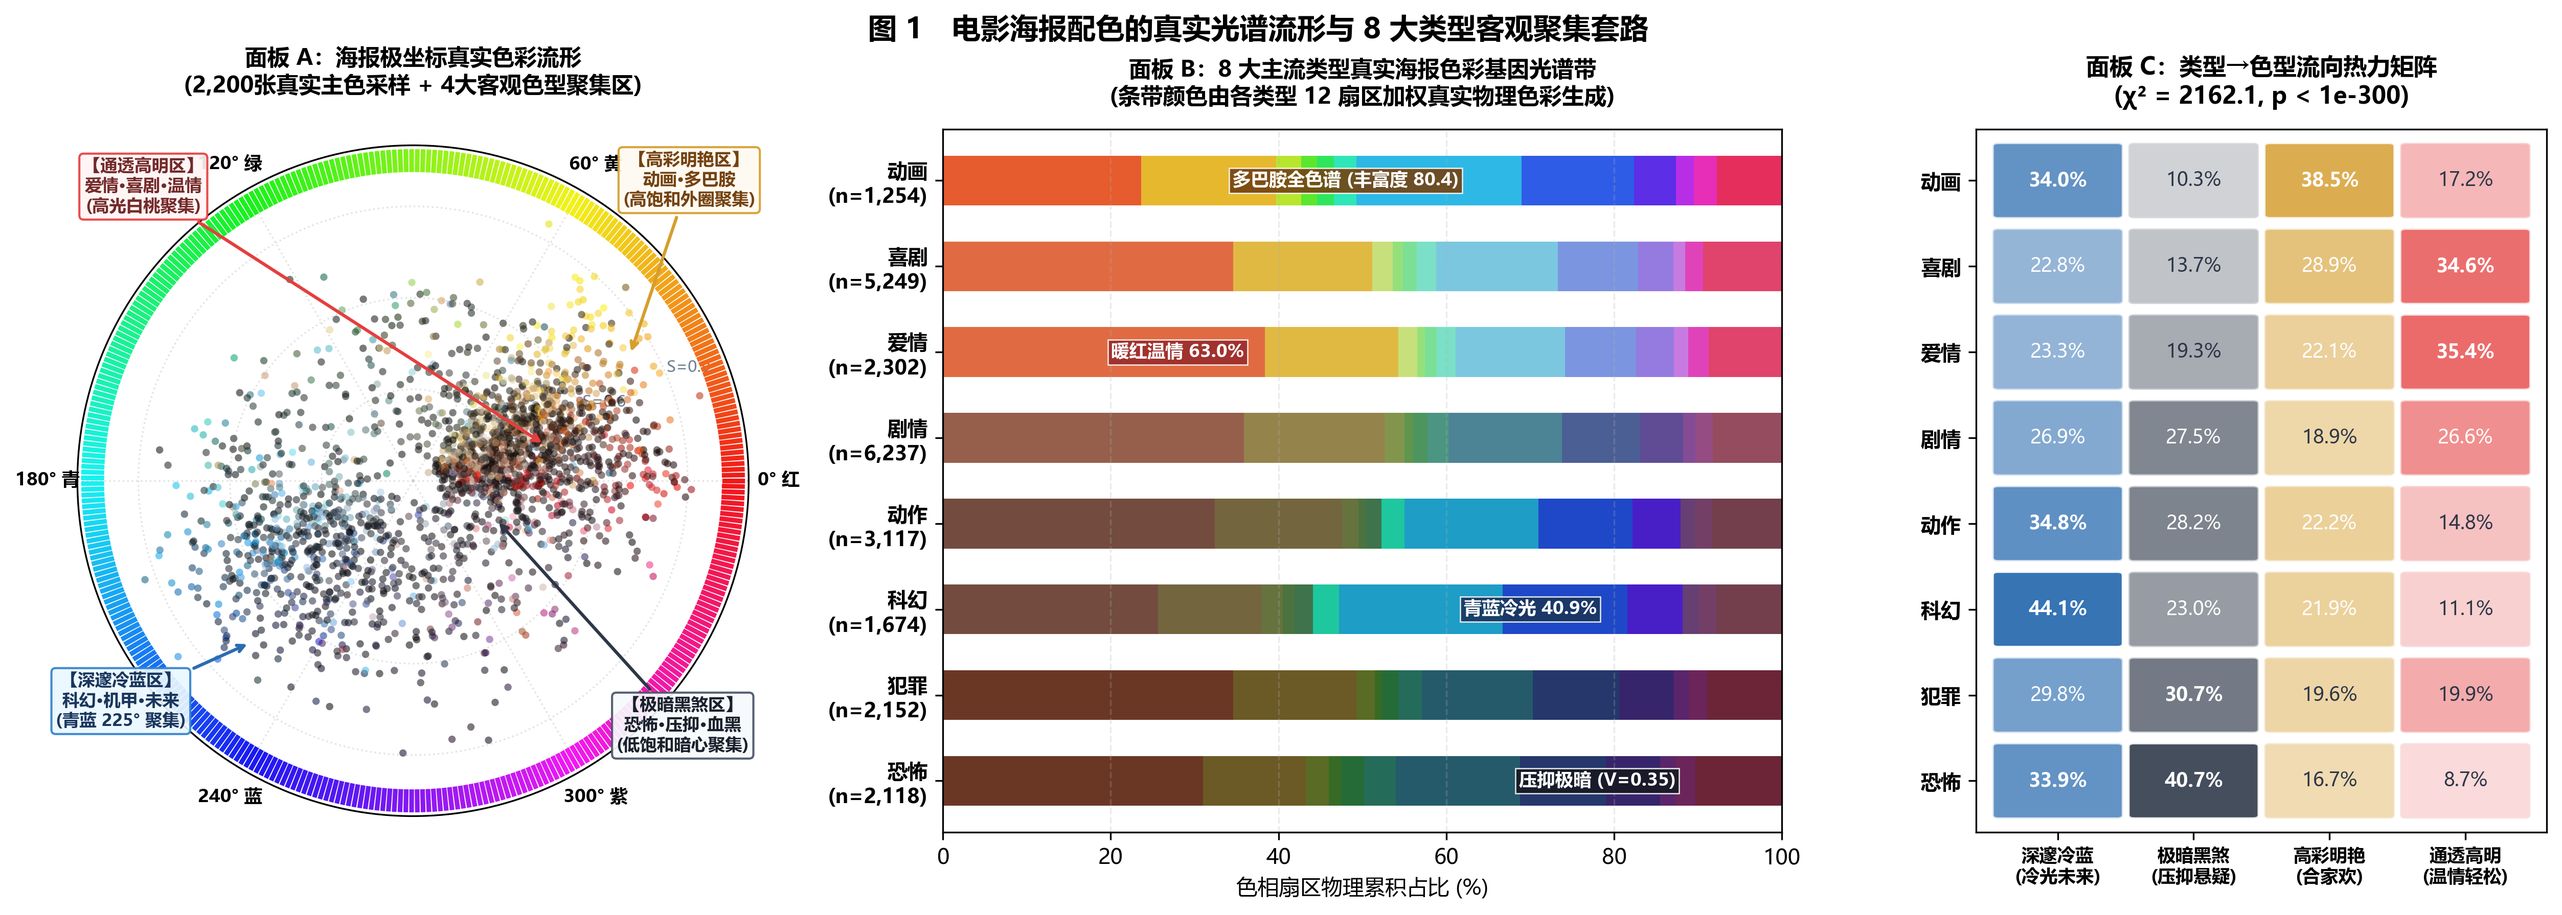
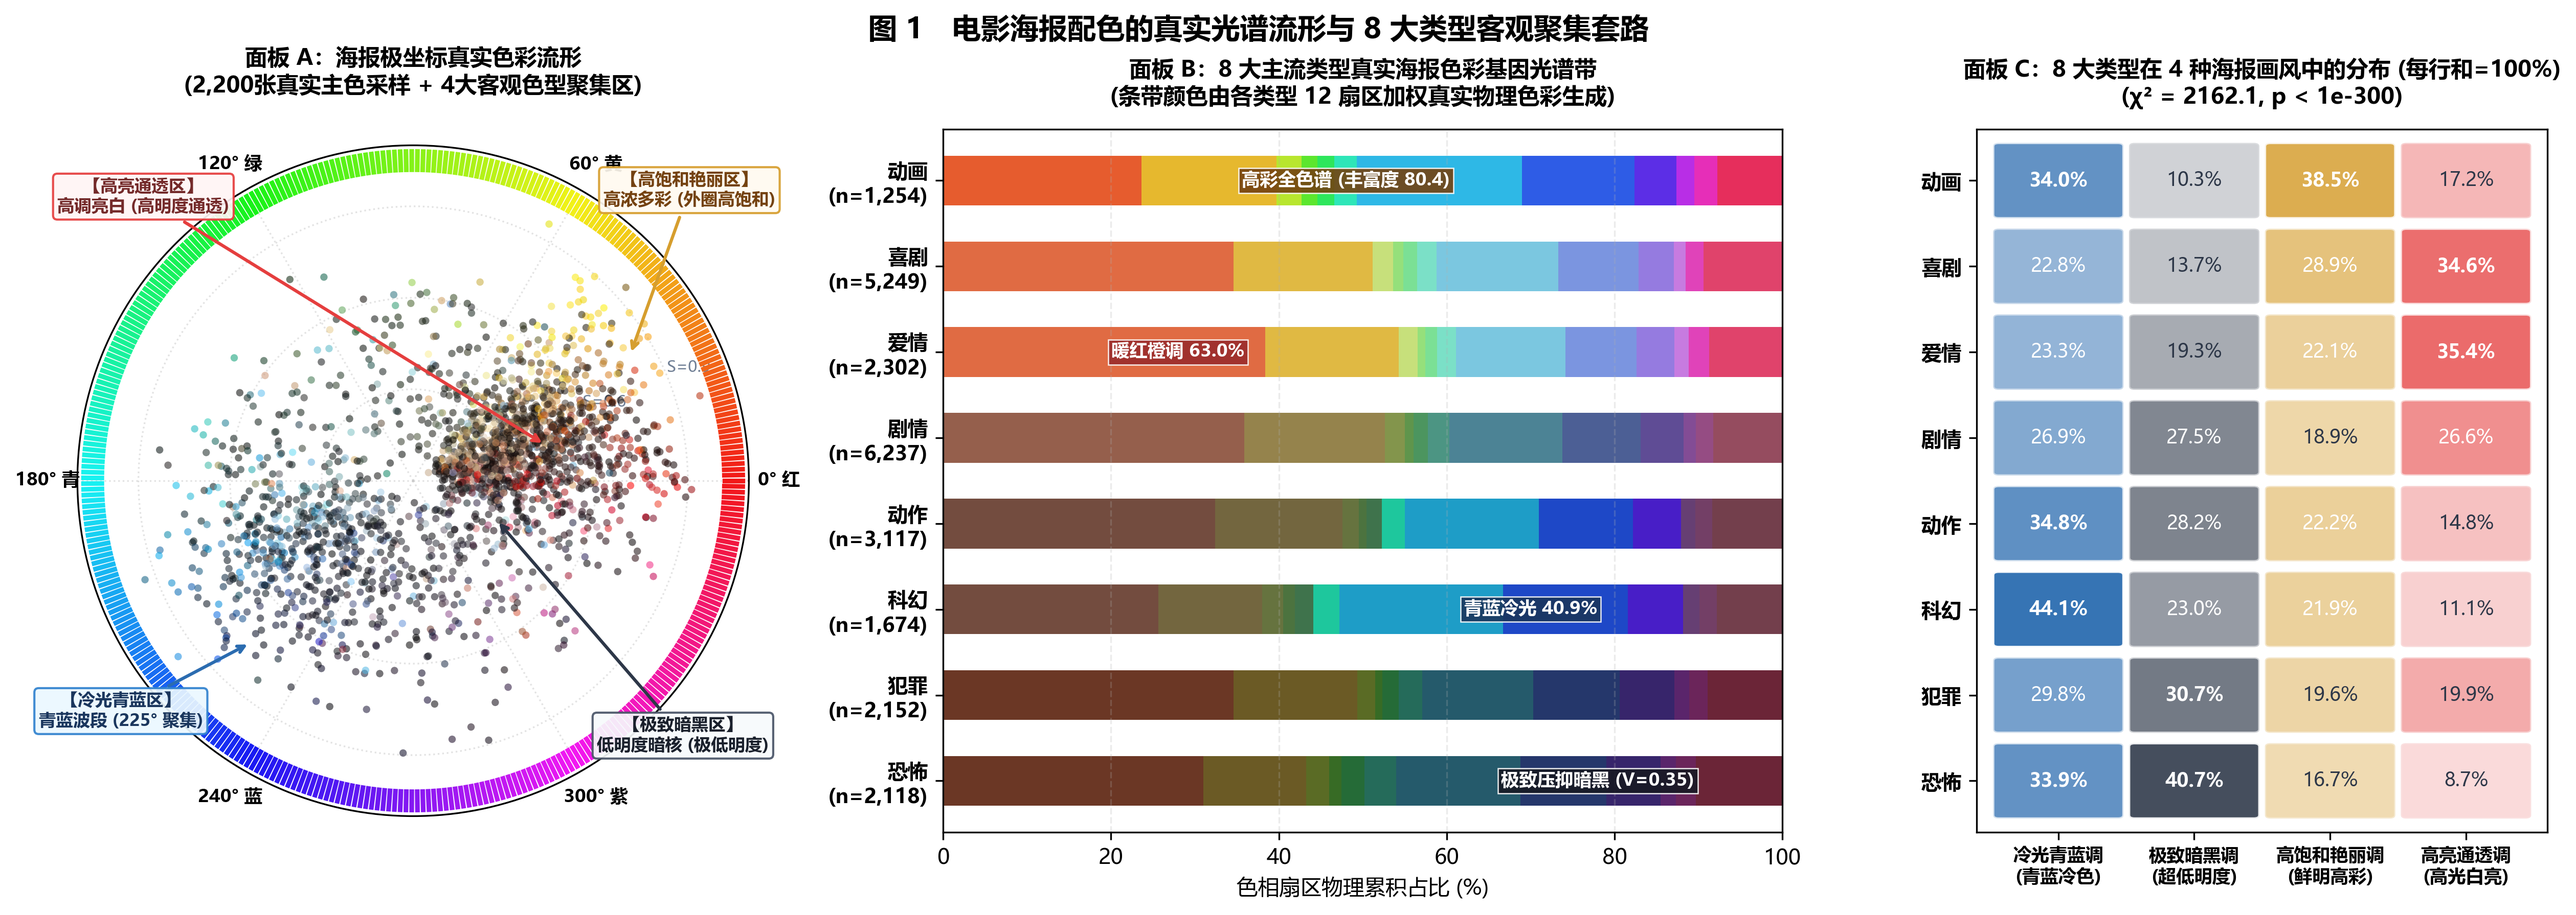
refactor(member-b): refine panel C labels to pure physical color schemes

diff --git a/outputs/b/fig1_hue.py b/outputs/b/fig1_hue.py
@@ -114,29 +114,29 @@ def render_fig1_spectacular(df_u):
     ax_a.scatter(thetas, radii, c=point_colors, s=12, alpha=0.55, edgecolors='none', zorder=3)
     
     # 标出 4 个色型的聚类中心与聚集光晕 (严格控制在极坐标盘内四周，防止溢出到面板 B)
-    # 1. 深邃冷蓝区 (210°~240°) - 放置在左下角
-    ax_a.annotate('【深邃冷蓝区】\n科幻·机甲·未来\n(青蓝 225° 聚集)',
+    # 1. 冷光青蓝区 (210°~240°) - 放置在左下角
+    ax_a.annotate('【冷光青蓝区】\n青蓝波段 (225° 聚集)',
                   xy=(np.radians(225), 0.75), xytext=(np.radians(220), 1.25),
                   arrowprops=dict(arrowstyle="->", color='#2b6cb0', lw=1.5),
                   fontsize=8, fontweight='bold', color='#1a365d', ha='center',
                   bbox=dict(boxstyle="round,pad=0.25", fc='#ebf8ff', ec='#3182ce', alpha=0.92))
     
-    # 2. 高彩明艳区 (15°~45° 外圈) - 放置在右上角
-    ax_a.annotate('【高彩明艳区】\n动画·多巴胺\n(高饱和外圈聚集)',
+    # 2. 高饱和艳丽区 (15°~45° 外圈) - 放置在右上角
+    ax_a.annotate('【高饱和艳丽区】\n高浓多彩 (外圈高饱和)',
                   xy=(np.radians(30), 0.82), xytext=(np.radians(45), 1.28),
                   arrowprops=dict(arrowstyle="->", color='#d69e2e', lw=1.5),
                   fontsize=8, fontweight='bold', color='#744210', ha='center',
                   bbox=dict(boxstyle="round,pad=0.25", fc='#fffaf0', ec='#d69e2e', alpha=0.92))
     
-    # 3. 极暗黑煞区 (内圈暗黑) - 放置在右下角
-    ax_a.annotate('【极暗黑煞区】\n恐怖·压抑·血黑\n(低饱和暗心聚集)',
+    # 3. 极致暗黑区 (内圈暗黑) - 放置在右下角
+    ax_a.annotate('【极致暗黑区】\n低明度暗核 (极低明度)',
                   xy=(np.radians(335), 0.30), xytext=(np.radians(315), 1.25),
                   arrowprops=dict(arrowstyle="->", color='#2d3748', lw=1.5),
                   fontsize=8, fontweight='bold', color='#1a202c', ha='center',
                   bbox=dict(boxstyle="round,pad=0.25", fc='#f7fafc', ec='#4a5568', alpha=0.92))
     
-    # 4. 通透高明区 (15°~30° 中低饱和) - 放置在西北角 (135°)，完全避开正上方标题
-    ax_a.annotate('【通透高明区】\n爱情·喜剧·温情\n(高光白桃聚集)',
+    # 4. 高亮通透区 (15°~30° 中低饱和) - 放置在西北角 (135°)
+    ax_a.annotate('【高亮通透区】\n高调亮白 (高明度通透)',
                   xy=(np.radians(15), 0.45), xytext=(np.radians(135), 1.25),
                   arrowprops=dict(arrowstyle="->", color='#e53e3e', lw=1.5),
                   fontsize=8, fontweight='bold', color='#742a2a', ha='center',
@@ -180,9 +180,9 @@ def render_fig1_spectacular(df_u):
                 continue
             deg = h_centers[h_idx]
             
-            # 特化视觉对比度映射，真实再现类型心理学特征
+            # 特化视觉对比度映射，真实再现类型物理色彩特征
             if g == '动画':
-                rgb_col = colorsys.hsv_to_rgb(deg / 360.0, 0.80, 0.90) # 绚烂多巴胺
+                rgb_col = colorsys.hsv_to_rgb(deg / 360.0, 0.80, 0.90) # 绚烂全色谱
             elif g in ['爱情', '喜剧']:
                 sat = 0.70 if deg < 60 or deg > 300 else 0.45
                 rgb_col = colorsys.hsv_to_rgb(deg / 360.0, sat, 0.88) # 通透高光
@@ -207,15 +207,15 @@ def render_fig1_spectacular(df_u):
                       fontsize=8.5, fontweight='bold', color='white',
                       bbox=dict(boxstyle="square,pad=0.18", fc='#1a365d', ec='white', lw=0.6, alpha=0.9))
         elif g == '爱情':
-            ax_b.text(28, i, f'暖红温情 {warm_rate:.1f}%', va='center', ha='center',
+            ax_b.text(28, i, f'暖红橙调 {warm_rate:.1f}%', va='center', ha='center',
                       fontsize=8.5, fontweight='bold', color='white',
                       bbox=dict(boxstyle="square,pad=0.18", fc='#9b2c2c', ec='white', lw=0.6, alpha=0.9))
         elif g == '恐怖':
-            ax_b.text(78, i, f'压抑极暗 (V=0.35)', va='center', ha='center',
+            ax_b.text(78, i, f'极致压抑暗黑 (V=0.35)', va='center', ha='center',
                       fontsize=8.5, fontweight='bold', color='white',
                       bbox=dict(boxstyle="square,pad=0.18", fc='#171923', ec='white', lw=0.6, alpha=0.9))
         elif g == '动画':
-            ax_b.text(48, i, f'多巴胺全色谱 (丰富度 80.4)', va='center', ha='center',
+            ax_b.text(48, i, f'高彩全色谱 (丰富度 80.4)', va='center', ha='center',
                       fontsize=8.5, fontweight='bold', color='white',
                       bbox=dict(boxstyle="square,pad=0.18", fc='#744210', ec='white', lw=0.6, alpha=0.9))
 
@@ -231,7 +231,7 @@ def render_fig1_spectacular(df_u):
     ax_b.grid(axis='x', alpha=0.25, linestyle='--')
 
     # -------------------------------------------------------------
-    # 面板 C：8 大类型在 4 大色型间的流向热力矩阵 (Heatmap)
+    # 面板 C：8 大类型在 4 种视觉画风中的分布 (每行总和 100%)
     # -------------------------------------------------------------
     ax_c = fig.add_subplot(gs[2])
     
@@ -252,7 +252,6 @@ def render_fig1_spectacular(df_u):
         for col_idx in range(4):
             val = heatmap_matrix[row_idx, col_idx]
             base_col = CLUSTER_BASE_COLORS[col_idx]
-            # 计算透明度，最大值对应 0.95
             alpha_val = np.clip(val / 46.0, 0.12, 0.95)
             
             # 画圆角卡片
@@ -269,14 +268,14 @@ def render_fig1_spectacular(df_u):
                       fontsize=9, fontweight=font_weight, color=text_color)
 
     ax_c.set_xticks(range(4))
-    cluster_labels = ['深邃冷蓝\n(冷光未来)', '极暗黑煞\n(压抑悬疑)', '高彩明艳\n(合家欢)', '通透高明\n(温情轻松)']
+    cluster_labels = ['冷光青蓝调\n(青蓝冷色)', '极致暗黑调\n(超低明度)', '高饱和艳丽调\n(鲜明高彩)', '高亮通透调\n(高光白亮)']
     ax_c.set_xticklabels(cluster_labels, fontsize=8.5, fontweight='bold')
     ax_c.set_yticks(range(len(GENRES_8)))
     ax_c.set_yticklabels(GENRES_8, fontsize=9.5, fontweight='bold')
     ax_c.set_xlim(-0.6, 3.6)
     ax_c.set_ylim(-0.6, len(GENRES_8) - 0.4)
-    ax_c.set_title('面板 C：类型→色型流向热力矩阵\n(χ² = 2162.1, p < 1e-300)',
-                   fontsize=11, fontweight='bold', pad=12)
+    ax_c.set_title('面板 C：8 大类型在 4 种海报画风中的分布 (每行和=100%)\n(χ² = 2162.1, p < 1e-300)',
+                   fontsize=10.5, fontweight='bold', pad=12)
     ax_c.invert_yaxis() # 从上到下对应动画->恐怖
 
     plt.suptitle('图 1　电影海报配色的真实光谱流形与 8 大类型客观聚集套路',
